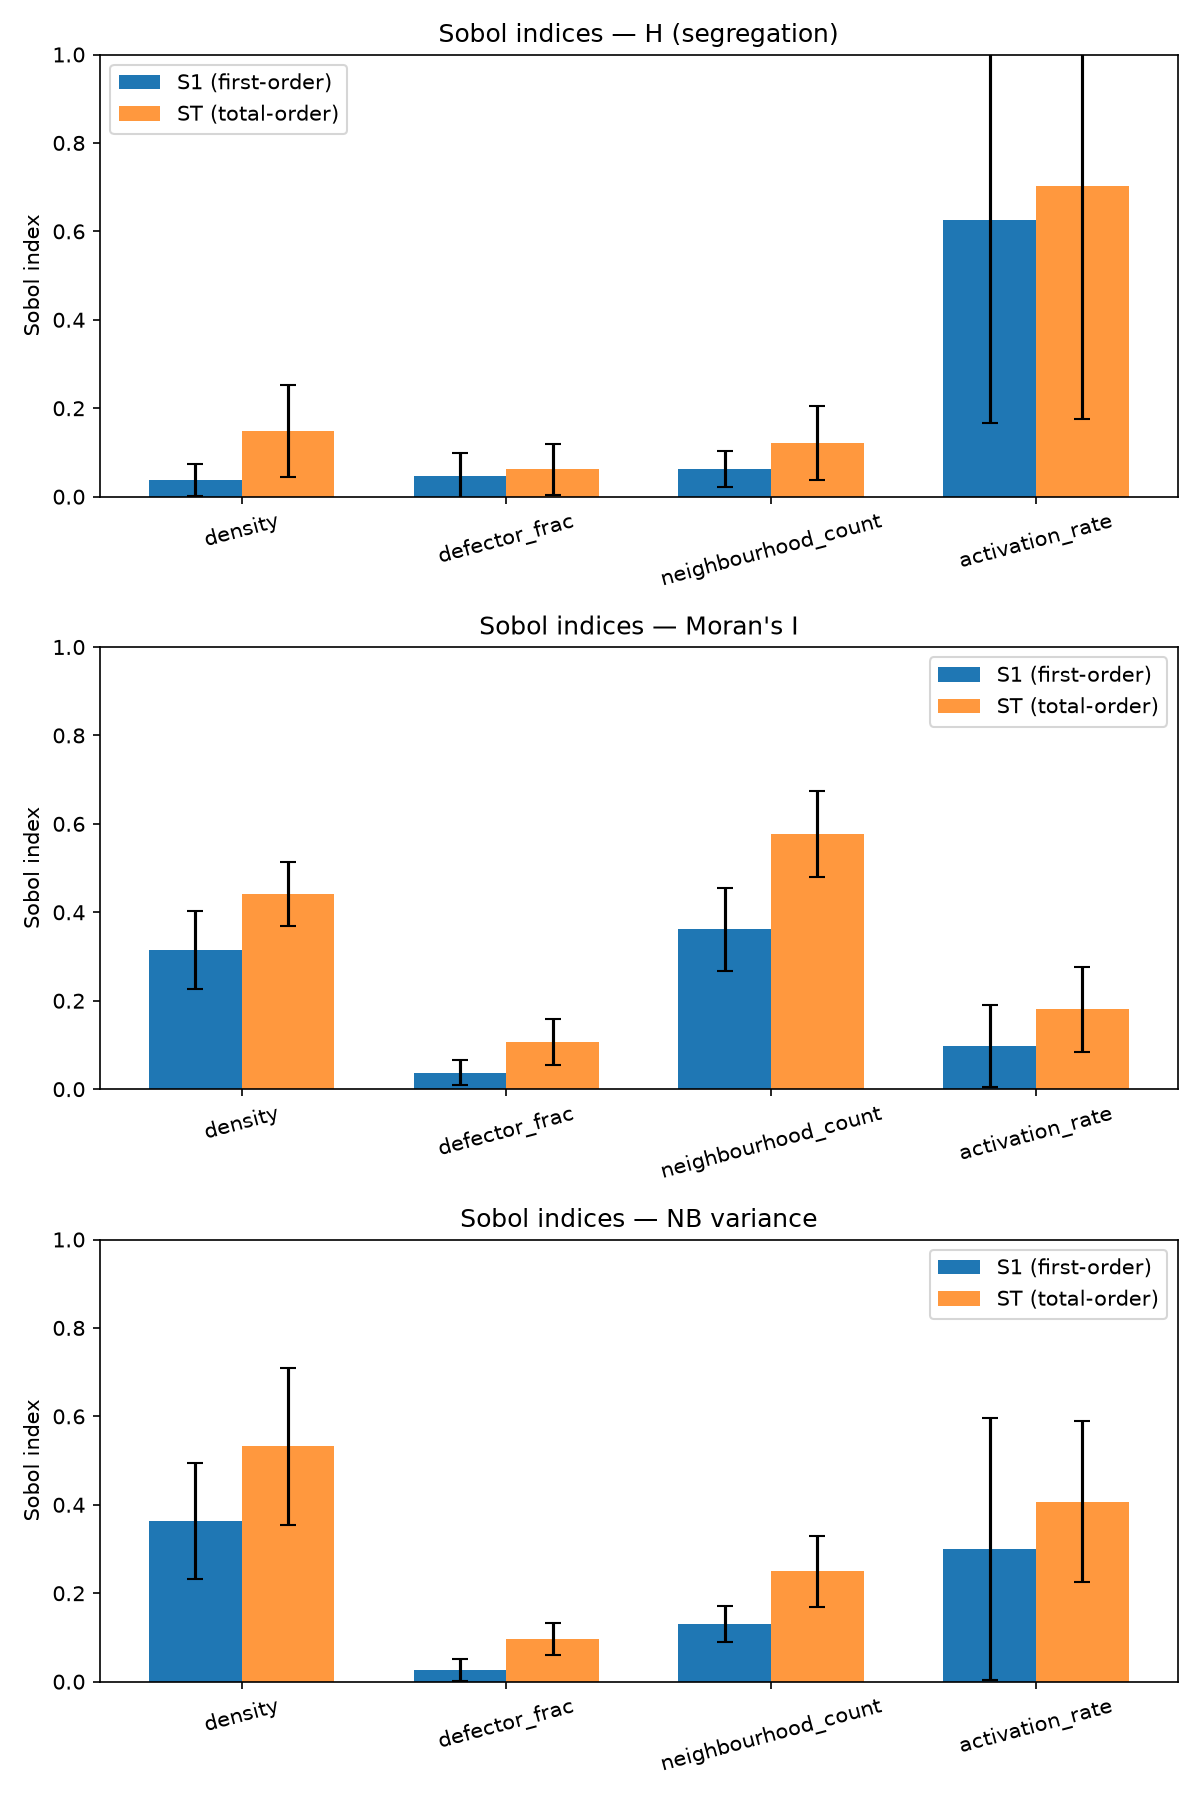
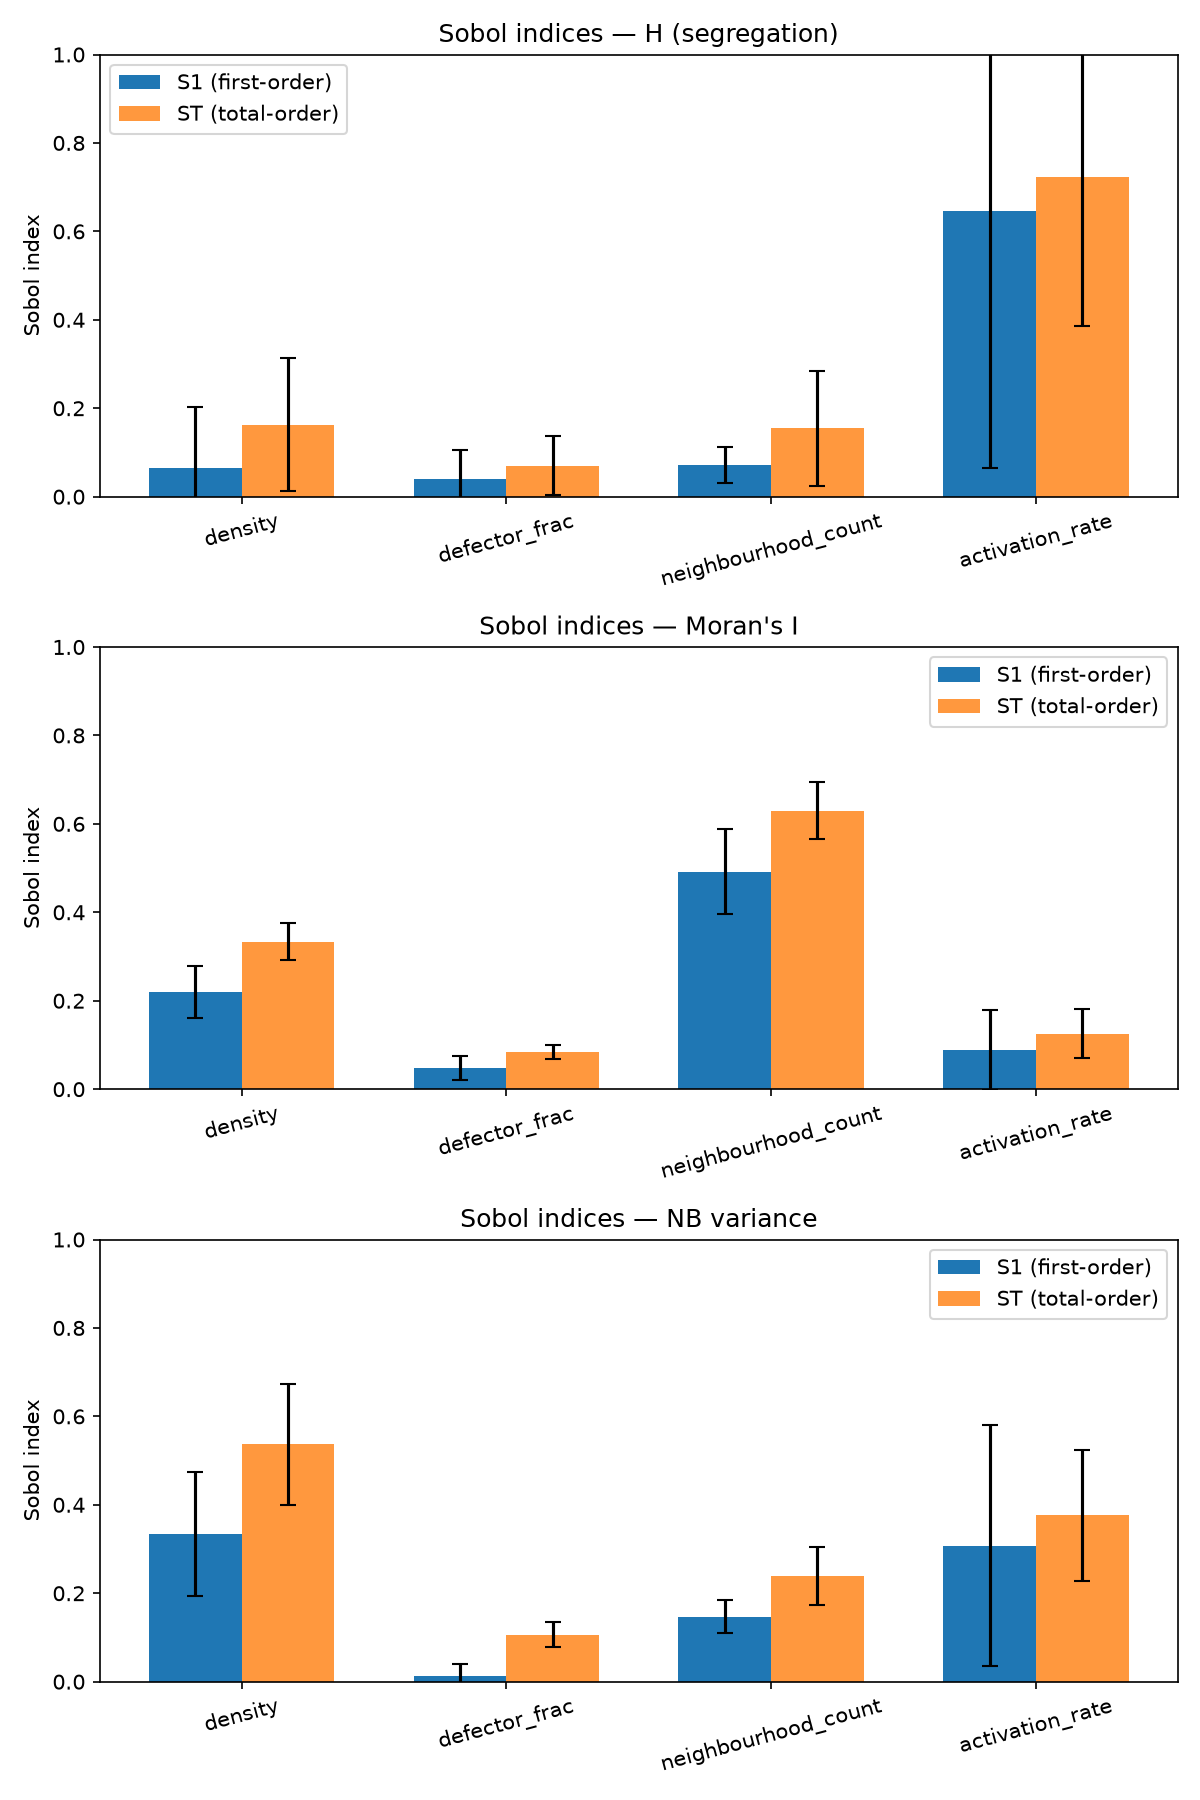
run with lowest density of 0.05 instead of 0, some edits into the readme

diff --git a/SensitivityAnalysis.py b/SensitivityAnalysis.py
@@ -19,7 +19,7 @@ def analyse_npz(npz_glob: str, results_dir: str, tail: int = 50):
 
     #convergence dynamics: H over time for a few combos
     # a random sample of combos to plot over
-    sample = random.sample(files, min(8, len(files)))
+    sample = random.sample(files, min(10, len(files)))
     WINDOW = 10
     fig, ax = plt.subplots(figsize=(7, 4))
     for j, f in enumerate(sample):                                
@@ -27,7 +27,6 @@ def analyse_npz(npz_glob: str, results_dir: str, tail: int = 50):
         mean_H = d["all_H"].mean(axis=0)                  # mean over seeds
         smooth = np.convolve(mean_H, np.ones(WINDOW) / WINDOW, mode="valid")
         x = np.arange(WINDOW - 1, len(mean_H))
-        ax.plot(mean_H, alpha=0.2, linewidth=1, label="pre-smoothing" if j == 0 else None)
         ax.plot(x, smooth, alpha=0.8, linewidth=1.2, label="smoothed (window 10)" if j == 0 else None)
     ax.set_xlabel("Step"); ax.set_ylabel("H (mean over seeds)")
     ax.set_title("Segregation trajectories (sample of combos)")

diff --git a/Saltelli.py b/Saltelli.py
@@ -14,7 +14,7 @@ problem = {
     'num_vars': 4, # number of params we are varying
     'names': ['density', 'defector_frac', 'neighbourhood_count', 'activation_rate'], # labels for plots
     'bounds': [ # samples uniformly between these bounds
-        [0.0,  1.0],   # density
+        [0.05,  1.0],   # density
         [0.0,  1.0],   # defector_frac
         [5,   200],     # neighbourhood_count (treat as continuous, round in model)
         [0.0,  1.0],   # activation_rate

diff --git a/README.md b/README.md
@@ -324,6 +324,12 @@ uv run python SensitivityAnalysis.py
 ```
 Saves the H-convergence plots into the `sobol_output` directory.
 
+### 10. Run Heatmap.py
+```bash
+uv run python Heatmap.py
+```
+Saves scatter plots and heatmaps into `sobol_output` directory. The parameters these plots are created with hardcoded as the parameters with the highest effects. 
+
 ## Files
  
 | File | Description |
@@ -334,6 +340,7 @@ Saves the H-convergence plots into the `sobol_output` directory.
 | `Collect_outputs.py` | After all SLURM jobs finish, loads all `.npz` files and collapses each to a single scalar per output (mean over seeds, final timestep). Saves `Y_H.npy`, `Y_morans.npy`, `Y_nb_var.npy`, `Y_steps.npy`. Missing combos (failed jobs) are filled with the mean. |
 | `Analyse_sobol.py` | Runs SALib's Sobol estimator on the Y vectors. Saves `sobol_indices.png` (bar chart of S1 and ST per output) and `sobol_indices.csv` (full results table with confidence intervals). |
 | `SensitivityAnalysis.py`| Runs on the npz files generated through sampling to create H convergence plots. The files are saved in a results folder called `sobol_output` and the files created are called `sa_H_trajectories.png`, and `sa_H_trajectories_all.png`|
+| `Heatmap.py`| Runs on `results_summary.csv` to create heatmaps and scatter plots of each convergence metrics (H-convergence, nb variance, and morans I). The files are saved in a results folder called `sobol_output` and the files created are called `sa_heatmap.png`, `sa_scatter.png`, `sa_heatmap_morans.png`, `sa_scatter_morans.png`, `sa_heatmap_nb_variance.png`, and `sa_scatter_nb_variance.png`|
  
 ## Output files (not tracked by git)
  